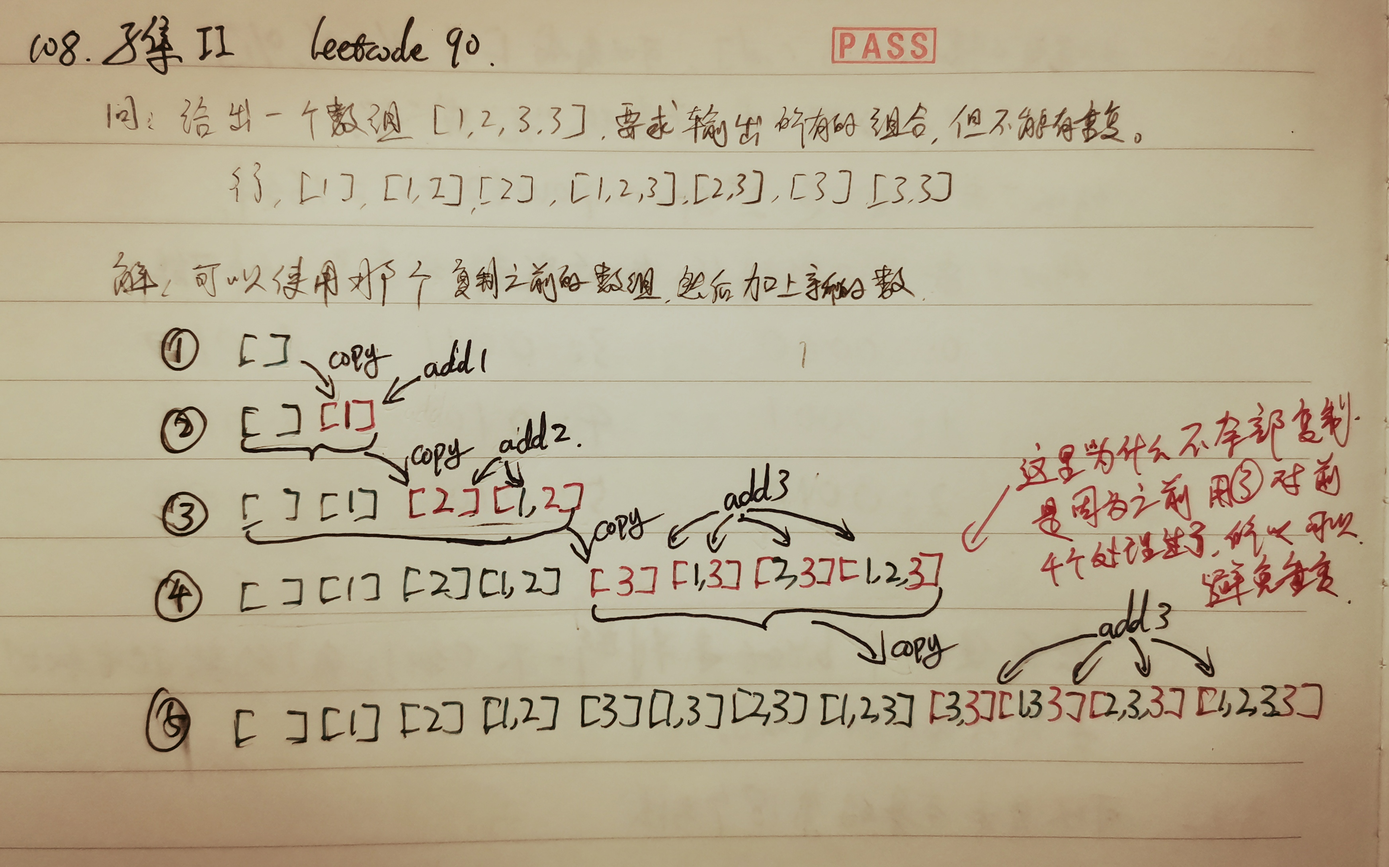
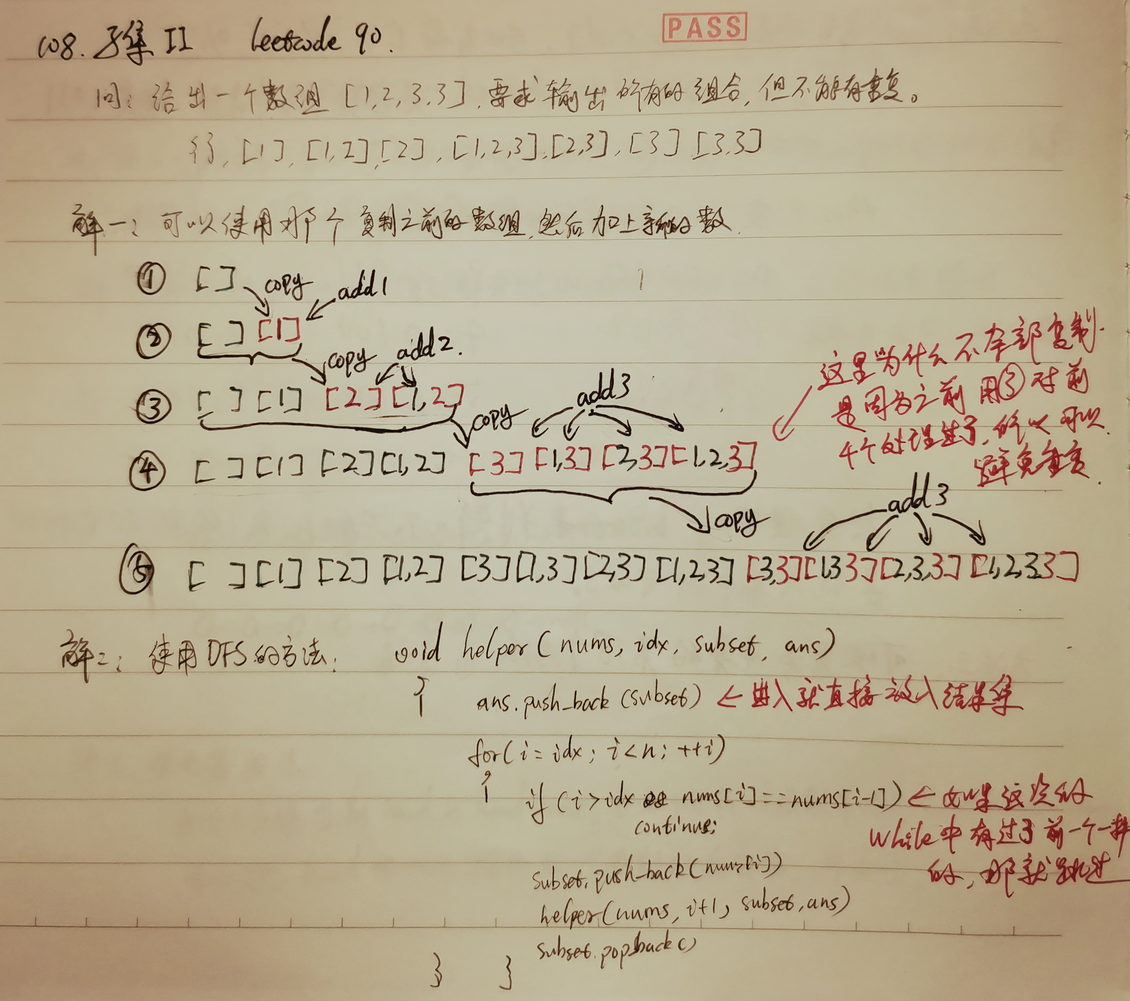
Add the new solution for the subject 90

diff --git a/leetcode/leetcode_0090_Subsets_II/leetcode_0090_Subsets_II.cpp b/leetcode/leetcode_0090_Subsets_II/leetcode_0090_Subsets_II.cpp
@@ -2,6 +2,8 @@ class Solution {
 public:
     vector<vector<int>> subsetsWithDup(vector<int>& nums) {
         
+        //Method 1: using the copy way
+        /*
         if (nums.size() == 0)
             return {};
         
@@ -32,5 +34,32 @@ public:
         }
         
         return ret;
+        */
+        
+        //Method 2: using the recursion
+        
+        sort(nums.begin(), nums.end());
+        vector<vector<int>> ans;
+        vector<int> subset;
+        helper(nums, 0, subset, ans);
+        
+        return ans;
+            
     }
+    
+    void helper(vector<int>& nums, int idx, vector<int> &subset, vector<vector<int>> &ans)
+    {
+        ans.push_back(subset);
+        
+        for (int i = idx; i < nums.size(); ++i)
+        {
+            if (i > idx && nums[i] == nums[i - 1])
+                continue;
+            
+            subset.push_back(nums[i]);
+            helper(nums, i + 1, subset, ans);
+            subset.pop_back();
+        }
+    }
+    
 };
